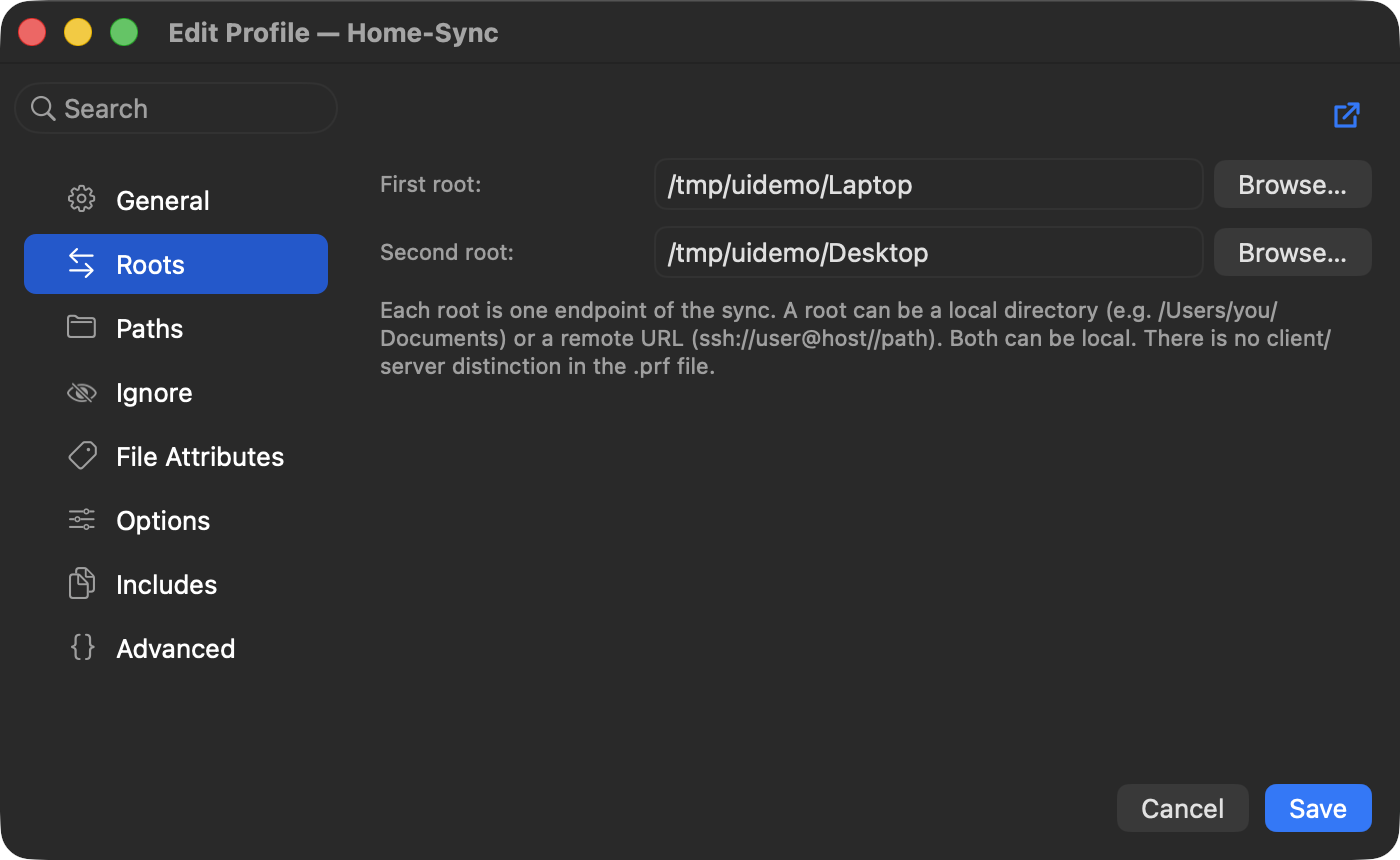
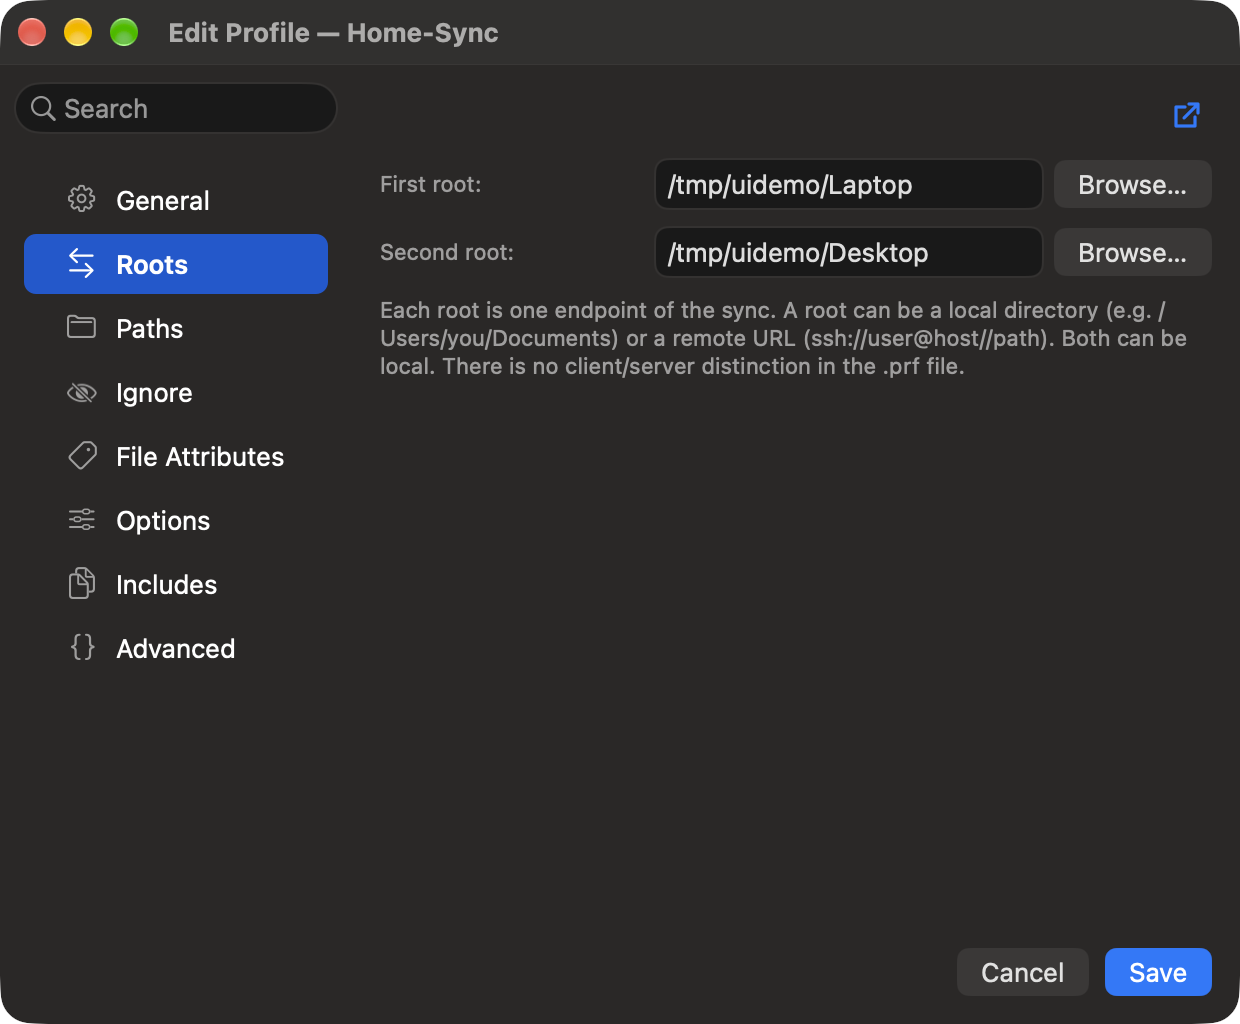
Site: retake the four landing-page screenshots from the 1.0 build (#188)
The previous set predated several fixes: the status line read '1 conflicts',
and the Settings tab bar lacked Command Line. The new shots use the same demo
data in dark mode, and the profile editor caption now describes what it shows.

diff --git a/site/content/index.html b/site/content/index.html
@@ -20,8 +20,8 @@
     <figcaption>Review changes before syncing, with conflicts and per-item direction.</figcaption>
   </figure>
   <figure>
-    <img src="assets/screenshot-profile-editor.png" alt="Editing a profile's local and remote (SSH) synchronization roots" loading="lazy">
-    <figcaption>Configure a profile with local and remote (SSH) roots.</figcaption>
+    <img src="assets/screenshot-profile-editor.png" alt="Editing a profile's two synchronization roots in the Profile Editor" loading="lazy">
+    <figcaption>Set a profile's roots, local folders or remote (SSH) URLs, in the profile editor.</figcaption>
   </figure>
   <figure>
     <img src="assets/screenshot-settings-sync.png" alt="Settings: notification and sound on sync completion" loading="lazy">
